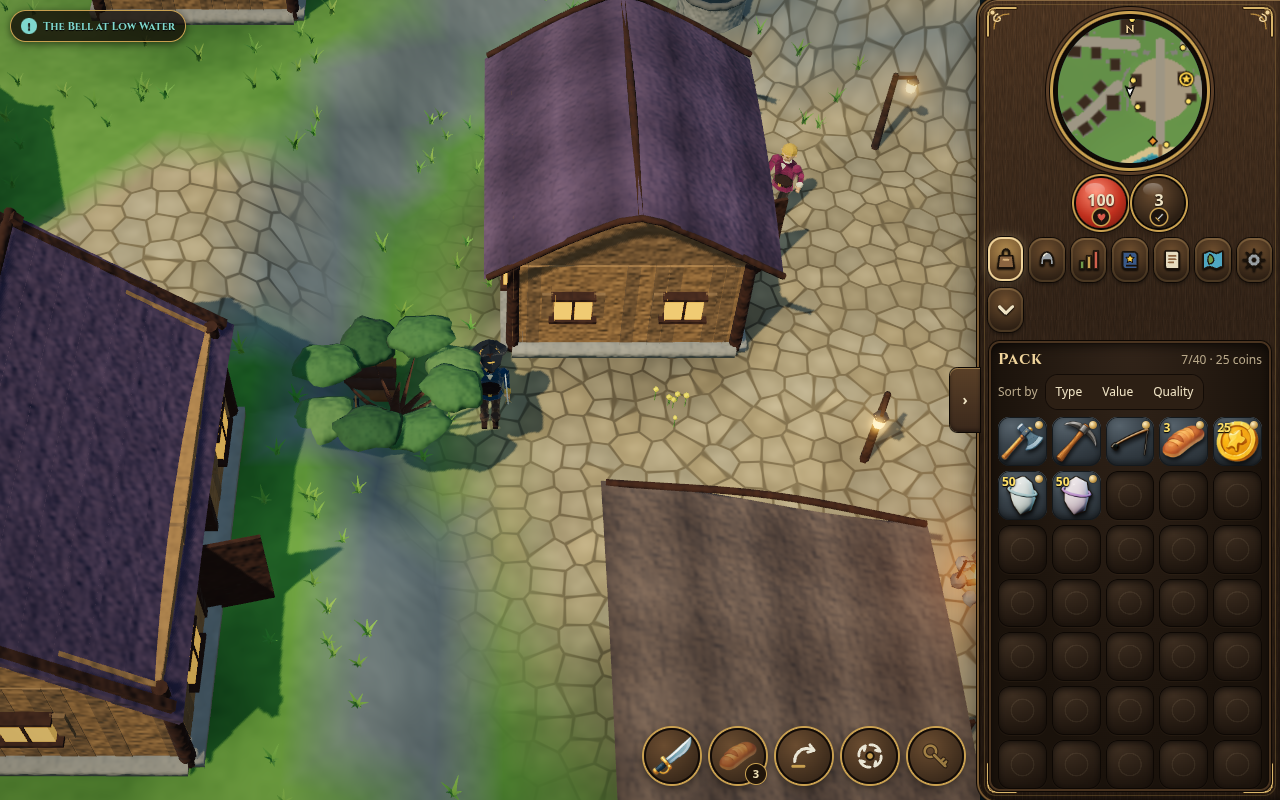
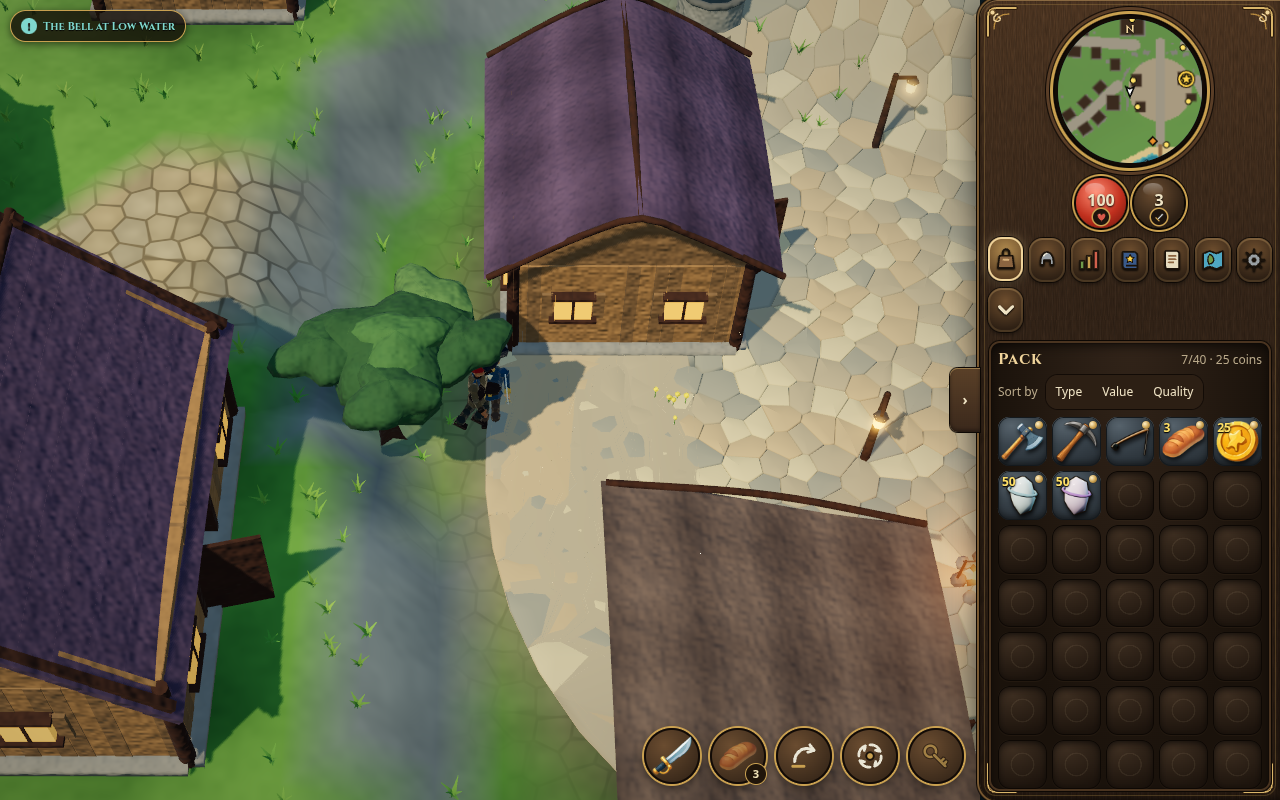
Refine Bellwether quay paving and harbour oak

Changed region(s): [[0.1875, 0.0, 0.7812, 0.9688], [0.9062, 0.0938, 0.9375, 0.125]]

diff --git a/src/art/models/quayPaving.ts b/src/art/models/quayPaving.ts
@@ -1,0 +1,132 @@
+import * as THREE from 'three';
+import { PAL } from '../materials';
+import { fbm, mulberry32 } from '../noise';
+import { BELL_TOWN, LAYOUT } from '../../game/world/island';
+import type { World } from '../../game/world/world';
+
+export interface QuayStone { x: number; z: number; radius: number; variant: number; colour: number }
+
+const SITE_TARGET = 1250, GAP = .025, HASH_CELL = .58;
+const STONE_COLOURS = [PAL.quayStone, PAL.quayStoneWarm, PAL.quayStoneCool, PAL.quayStonePale] as const;
+
+/** Deterministic, irregular site centers for the interlocking stones in the old quay footprint. */
+export function planQuayStones(world: Pick<World, 'solids'>, seed = 41621): QuayStone[] {
+  const rnd = mulberry32(seed), stones: QuayStone[] = [], cells = new Map<string, number[]>();
+  const key = (x: number, z: number) => `${x},${z}`;
+  const buildings = BELL_TOWN.buildings.filter(b => Math.abs(b.x - LAYOUT.village.x) < 17 && Math.abs(b.z - LAYOUT.village.z) < 17);
+  const nearbySolids = world.solids.filter(s => Math.abs(s.x - LAYOUT.village.x) < 17 + ('r' in s ? s.r : s.w / 2)
+    && Math.abs(s.z - LAYOUT.village.z) < 17 + ('r' in s ? s.r : s.d / 2));
+  const isBlocked = (x: number, z: number, r: number) => {
+    if (buildings.some(b => Math.abs(x - b.x) < b.w / 2 + r + .12 && Math.abs(z - b.z) < b.d / 2 + r + .12)) return true;
+    return nearbySolids.some(s => {
+      if ('r' in s) return Math.hypot(x - s.x, z - s.z) < s.r + r + .08;
+      return Math.abs(x - s.x) < s.w / 2 + r + .08 && Math.abs(z - s.z) < s.d / 2 + r + .08;
+    });
+  };
+  for (let attempt = 0; attempt < SITE_TARGET * 150 && stones.length < SITE_TARGET; attempt++) {
+    const angle = rnd() * Math.PI * 2, distance = Math.sqrt(rnd()) * 14.1;
+    const x = LAYOUT.village.x + Math.cos(angle) * distance, z = LAYOUT.village.z + Math.sin(angle) * distance;
+    const radius = .19 + rnd() * .12;
+    const edge = 13.15 + fbm(x * .13, z * .13, 2, 11) * 2.8;
+    if (distance > edge - radius * .55 || isBlocked(x, z, radius)) continue;
+    const cx = Math.floor(x / HASH_CELL), cz = Math.floor(z / HASH_CELL);
+    let overlaps = false;
+    for (let dz = -2; dz <= 2 && !overlaps; dz++) for (let dx = -2; dx <= 2 && !overlaps; dx++) {
+      for (const index of cells.get(key(cx + dx, cz + dz)) ?? []) {
+        const other = stones[index];
+        if (Math.hypot(x - other.x, z - other.z) < radius + other.radius + GAP) { overlaps = true; break; }
+      }
+    }
+    if (overlaps) continue;
+    const stone: QuayStone = { x, z, radius, variant: Math.floor(rnd() * 4), colour: STONE_COLOURS[Math.floor(rnd() * STONE_COLOURS.length)] };
+    const index = stones.push(stone) - 1, bucket = cells.get(key(cx, cz));
+    if (bucket) bucket.push(index); else cells.set(key(cx, cz), [index]);
+  }
+  return stones;
+}
+
+type Point = { x: number; z: number };
+/** Clip a convex polygon to the half-plane that is nearer to the current stone site. */
+function clip(poly: Point[], nx: number, nz: number, limit: number): Point[] {
+  const output: Point[] = [];
+  for (let i = 0; i < poly.length; i++) {
+    const a = poly[i], b = poly[(i + 1) % poly.length], da = a.x * nx + a.z * nz - limit, db = b.x * nx + b.z * nz - limit;
+    const insideA = da <= 1e-8, insideB = db <= 1e-8;
+    if (insideA) output.push(a);
+    if (insideA !== insideB) {
+      const t = da / (da - db);
+      output.push({ x: a.x + (b.x - a.x) * t, z: a.z + (b.z - a.z) * t });
+    }
+  }
+  return output;
+}
+
+function touchesBuilding(p: Point, buildings: typeof BELL_TOWN.buildings): boolean {
+  return buildings.some(b => Math.abs(p.x - (b.x - LAYOUT.village.x)) < b.w / 2 + .2
+    && Math.abs(p.z - (b.z - LAYOUT.village.z)) < b.d / 2 + .2);
+}
+
+/** Build shallow bevelled Voronoi setts as one vertex-coloured mesh; no texture repetition or collision changes. */
+export function buildQuayPaving(world: Pick<World, 'solids' | 'ground'>): THREE.Group {
+  const sites = planQuayStones(world), buildings = BELL_TOWN.buildings.filter(b => Math.abs(b.x - LAYOUT.village.x) < 17 && Math.abs(b.z - LAYOUT.village.z) < 17);
+  const boundary: Point[] = Array.from({ length: 64 }, (_, i) => {
+    const a = i / 64 * Math.PI * 2;
+    const r = 14.2 + .4 * Math.sin(a * 3 + .2) + .22 * Math.cos(a * 5 - .7);
+    return { x: Math.cos(a) * r, z: Math.sin(a) * r };
+  });
+  const siteBuckets = new Map<string, number[]>();
+  sites.forEach((site, i) => {
+    const key = `${Math.floor(site.x / HASH_CELL)},${Math.floor(site.z / HASH_CELL)}`;
+    const bucket = siteBuckets.get(key); if (bucket) bucket.push(i); else siteBuckets.set(key, [i]);
+  });
+  const positions: number[] = [], colours: number[] = [], indices: number[] = [];
+  let renderedStones = 0;
+  const base = new THREE.Color();
+  for (let s = 0; s < sites.length; s++) {
+    const site = sites[s], sx = site.x - LAYOUT.village.x, sz = site.z - LAYOUT.village.z;
+    let poly = boundary;
+    const cx = Math.floor(site.x / HASH_CELL), cz = Math.floor(site.z / HASH_CELL);
+    const neighbours: number[] = [];
+    for (let dz = -4; dz <= 4; dz++) for (let dx = -4; dx <= 4; dx++) neighbours.push(...(siteBuckets.get(`${cx + dx},${cz + dz}`) ?? []));
+    for (const n of neighbours) {
+      if (n === s || poly.length < 3) continue;
+      const other = sites[n], nx = other.x - site.x, nz = other.z - site.z;
+      if (nx * nx + nz * nz > 2.4 * 2.4) continue;
+      const ox = other.x - LAYOUT.village.x, oz = other.z - LAYOUT.village.z;
+      poly = clip(poly, nx, nz, (ox * ox + oz * oz - sx * sx - sz * sz) / 2);
+    }
+    if (poly.length < 3) continue;
+    const centre = poly.reduce((p, v) => ({ x: p.x + v.x / poly.length, z: p.z + v.z / poly.length }), { x: 0, z: 0 });
+    const worldCentre = { x: centre.x + LAYOUT.village.x, z: centre.z + LAYOUT.village.z };
+    if (touchesBuilding(worldCentre, buildings)) continue;
+    const count = poly.length, first = positions.length / 3;
+    base.setHex(site.colour);
+    const addRing = (scale: number, lift: number, tint: number) => {
+      for (const v of poly) {
+        const x = worldCentre.x + (v.x - centre.x) * scale, z = worldCentre.z + (v.z - centre.z) * scale;
+        positions.push(x, world.ground(x, z) + lift, z);
+        colours.push(base.r * tint, base.g * tint, base.b * tint);
+      }
+    };
+    addRing(1, .008, .72); addRing(1, .034, .84); addRing(.92, .091, 1);
+    const top = positions.length / 3;
+    positions.push(worldCentre.x, world.ground(worldCentre.x, worldCentre.z) + .105, worldCentre.z);
+    colours.push(base.r * .98, base.g * .98, base.b * .98);
+    for (let i = 0; i < count; i++) {
+      const a = first + i, b = first + (i + 1) % count, c = first + count + i, d = first + count + (i + 1) % count;
+      const e = first + count * 2 + i, f = first + count * 2 + (i + 1) % count;
+      indices.push(a, c, b, b, c, d, c, e, d, d, e, f, top, f, e);
+    }
+    renderedStones++;
+  }
+  const geometry = new THREE.BufferGeometry();
+  geometry.setAttribute('position', new THREE.Float32BufferAttribute(positions, 3));
+  geometry.setAttribute('color', new THREE.Float32BufferAttribute(colours, 3));
+  geometry.setIndex(indices); geometry.computeVertexNormals();
+  const material = new THREE.MeshStandardMaterial({ vertexColors: true, roughness: .98, metalness: 0, flatShading: false });
+  const paving = new THREE.Mesh(geometry, material);
+  paving.name = 'bellwether-quay-setts'; paving.castShadow = false; paving.receiveShadow = true;
+  paving.userData.stoneCount = renderedStones;
+  const group = new THREE.Group(); group.name = 'bellwether-quay-paving'; group.userData.stoneCount = renderedStones; group.add(paving);
+  return group;
+}

diff --git a/src/art/models/organic.ts b/src/art/models/organic.ts
@@ -45,11 +45,11 @@ function limb(points: readonly (readonly [number, number, number])[], radius: nu
   const geo = new THREE.BufferGeometry(); geo.setAttribute('position', new THREE.Float32BufferAttribute(p, 3)); geo.setIndex(ix); geo.computeVertexNormals(); return geo;
 }
 
-function foliage(width: number, depth: number, height: number, phase: number) {
+function foliage(width: number, depth: number, height: number, phase: number, scallop = 1) {
   // Broad shoulders, off-centre crown and scalloped lower edges. These are authored lobes, not vertex noise.
   const profile = [[0, .12], [.14, .64], [.39, 1], [.66, .94], [.87, .65], [1, .025]];
   return loft(profile.map(([t, r]) => [Math.sin(t * 2) * width * .13, t * height, t * depth * .1, width * r, depth * r]), 24,
-    (a, t) => 1 + .12 * Math.sin(a * 3 + phase) + .07 * Math.cos(a * 5 - phase) + (1 - t) * .055 * Math.sin(a * 7));
+    (a, t) => 1 + scallop * (.12 * Math.sin(a * 3 + phase) + .07 * Math.cos(a * 5 - phase)) + (1 - t) * .055 * Math.sin(a * 7));
 }
 
 /** Coastal Scots pine: wind-bent scaffold and a broad, interlocking crown of drooping needle sprays. */
@@ -95,24 +95,22 @@ export function buildCoastalOak(seed: number): THREE.Group {
   const out = collapse(g); out.rotation.y = rnd() * Math.PI * 2; out.scale.setScalar(.95 + rnd() * .1); return out;
 }
 
-/** The quay's salt oak: a branch-led silhouette and low, overlapping, wind-combed leaf fans. */
+/** The quay's salt oak: a raised, spreading canopy held by visible forked boughs. */
 export function buildHarbourOak(seed: number): THREE.Group {
   const rnd=mulberry32(seed), g=new THREE.Group();
-  g.add(mesh(limb([[0,0,0],[-.05,.6,0],[-.19,1.45,.08],[-.25,2.25,-.04]],.27),mat('trunk')));
-  const fans: [number,number,number,number,number,number][]=[
-    [-1.2,2.2,-.73,.66,.54,.08],[-.55,2.55,-1.18,.64,.55,-.12],
-    [.52,2.35,-1.18,.67,.54,.21],[1.21,2.57,-.48,.68,.58,.16],
-    [1.38,2.23,.55,.69,.54,-.1],[.48,2.49,1.24,.68,.58,.15],
-    [-.66,2.17,1.11,.68,.56,-.12],[-1.33,2.38,.22,.71,.58,.11],
+  g.add(mesh(limb([[0,0,0],[-.08,.75,.04],[-.2,1.72,.08],[-.12,2.65,-.05],[.08,3.35,-.12]],.3),mat('trunk')));
+  const boughs: [number,number,number][]=[[-1.22,3.02,-.46],[-.66,3.22,.98],[.94,3.08,-.76],[1.27,2.94,.28],[.14,3.38,.49]];
+  boughs.forEach(([x,y,z],i)=>g.add(mesh(limb([[0,1.12,.02],[x*.32,1.92,z*.34],[x*.72,y-.28,z*.72],[x,y,z]],.115-i*.008),mat('trunk'))));
+  const crown=mesh(foliage(1.46,1.36,1.52,seed*.11,1.65),mat('harbourLeafDeep'));
+  crown.position.set(-.08,2.55,-.04); crown.rotation.y=rnd()*.32; g.add(crown);
+  const clusters: [number,number,number,number,number,number][]=[
+    [-1.18,3.02,-.5,.82,.77,.82],[-.52,3.17,1.08,.79,.74,.88],
+    [.98,3.0,-.72,.86,.79,.82],[1.22,3.02,.46,.83,.76,.77],
+    [.02,3.29,.18,.82,.79,.9],
   ];
-  fans.forEach(([x,y,z,w,d,tilt],i)=>{
-    g.add(mesh(limb([[-.2,1.0,.02],[x*.45,1.65,z*.38],[x*.82,y-.1,z*.84]],.11-i*.005),mat('trunk')));
-    const geo=loft([
-      [0,0,0,w*.36,d*.33],[-.05,.04,0,w*.82,d*.76],[0,.12,0,w,d],
-      [.04,.22,-.02,w*.82,d*.77],[.06,.31,-.03,w*.46,d*.44],[.06,.33,-.03,.015,.015]
-    ],24,(a,t)=>1+.08*Math.sin(a*5+i*1.3)+.035*Math.cos(a*8-t*4));
-    const fan=mesh(geo,mat(i%4===0?'harbourLeafSun':i%3===0?'harbourLeafDeep':'harbourLeaf'));
-    fan.position.set(x,y,z);fan.rotation.set(tilt,rnd()*Math.PI*2,-tilt*.7);g.add(fan);
+  clusters.forEach(([x,y,z,w,d,h],i)=>{
+    const lobe=mesh(foliage(w,d,h,i*.83+seed*.07,1.8),mat(i===2?'harbourLeafSun':i===4?'harbourLeaf':'harbourLeafDeep'));
+    lobe.position.set(x,y,z); lobe.rotation.y=rnd()*.45; g.add(lobe);
   });
   const out=collapse(g);out.rotation.y=rnd()*Math.PI*2;out.scale.setScalar(.98+rnd()*.07);return out;
 }

diff --git a/src/render/terrainMesh.ts b/src/render/terrainMesh.ts
@@ -5,6 +5,7 @@ import type { Look } from '../art/looks';
 import { BELL_TOWN, coastDist, nearestPathDist, FLATS, LAYOUT, BEACH, SUN_LAYOUT, SUN, SUN_RADIUS, WRACK, WRACK_RADIUS, WRACK_LAYOUT, AMBER, AMBER_RADIUS, AMBER_LAYOUT } from '../game/world/island';
 import { World, HCELL } from '../game/world/world';
 import { CAVE_FLOOR } from '../game/world/caves';
+import { buildQuayPaving } from '../art/models/quayPaving';
 
 // Smooth terrain from the simulation's height grid: shared vertices, smooth normals,
 // colours blended per vertex (no triangle checkerboard), plus drifting cloud shadows.
@@ -30,6 +31,8 @@ export function buildTerrainMesh(world: World, look: Look, cave = false): Terrai
   const meadow = C(0x86ad55), moss = C(0x4f7a3a);
   const cobble = C(0xb3a486), cobbleD = C(0x9a8c72);
   const R = HN + 1, H = world.heights;
+  const bellwetherQuay = BELLWETHER_REDESIGN && world.cx === 0 && world.cz === 0 && !cave;
+  const quayJoint = C(0x857966);
   // cobbled squares (Bellwether's quay, Port Halyard's) and paved ruins (the Broken Ring, the Sunken Temple)
   const squares = [...BELL_TOWN.squares, FLATS[0], FLATS.find((f) => f.x === SUN_LAYOUT.port.x && f.z === SUN_LAYOUT.port.z)!, FLATS.find((f) => f.x === WRACK_LAYOUT.landing.x && f.z === WRACK_LAYOUT.landing.z)!, FLATS.find((f) => f.x === AMBER_LAYOUT.landing.x && f.z === AMBER_LAYOUT.landing.z)!];
   const paved = [LAYOUT.ruin, SUN_LAYOUT.temple];
@@ -98,6 +101,18 @@ export function buildTerrainMesh(world: World, look: Look, cave = false): Terrai
         const exposed = smooth(slope, .22, .62) * (1 - smooth(d, 12, 30));
         const bedding = .5 + .5 * Math.sin(y * 1.65 + x * .018 + z * .012);
         tmp.lerp(rock.clone().lerp(rockD, .16 + bedding * .22), exposed);
+      }
+      if (bellwetherQuay) {
+        const dx = x - LAYOUT.village.x, dz = z - LAYOUT.village.z;
+        if (Math.abs(dx) < 18.5 && Math.abs(dz) < 18.5) {
+          const distance = Math.hypot(dx, dz);
+          const angle = Math.atan2(dz, dx), edge = 14.2 + .4 * Math.sin(angle * 3 + .2) + .22 * Math.cos(angle * 5 - .7);
+          const plaza = 1 - smooth(distance, edge - 2, edge + 1.8);
+          if (plaza > 0) {
+            tmp.lerp(quayJoint, plaza);
+            cobW *= 1 - plaza;
+          }
+        }
       }
       return cobW;
     }
@@ -204,6 +219,7 @@ gl_FragColor.rgb *= 1.0 - smoothstep(0.55, 0.75, cloud) * 0.18;`}`);
   };
   // streaming (Tom: big islands that load in as you go): chunks are built when you come near, freed when you leave
   const group = new THREE.Group();
+  if (bellwetherQuay) group.add(buildQuayPaving(world));
   const live = new Map<number, THREE.Mesh>();
   const build = (ci: number, cj: number) => {
     const k = cj * nC + ci;

diff --git a/src/art/models/quayPaving.test.ts b/src/art/models/quayPaving.test.ts
@@ -1,0 +1,41 @@
+import { describe, expect, it } from 'vitest';
+import * as THREE from 'three';
+import { BELL_TOWN } from '../../game/world/island';
+import { buildQuayPaving, planQuayStones } from './quayPaving';
+
+const mockWorld = { solids: [], ground: () => 0 };
+
+describe('Bellwether quay paving', () => {
+  it('places deterministic, non-overlapping setts clear of building footprints', () => {
+    const stones = planQuayStones(mockWorld), repeat = planQuayStones(mockWorld);
+    expect(stones.length).toBeGreaterThan(700);
+    expect(stones.length).toBeLessThanOrEqual(1250);
+    expect(stones).toEqual(repeat);
+    const buckets = new Map<string, typeof stones>();
+    for (const a of stones) {
+      expect([a.x, a.z, a.radius, a.variant, a.colour].every(Number.isFinite)).toBe(true);
+      for (const b of BELL_TOWN.buildings) {
+        const clearX = Math.abs(a.x - b.x) >= b.w / 2 + a.radius + .12;
+        const clearZ = Math.abs(a.z - b.z) >= b.d / 2 + a.radius + .12;
+        expect(clearX || clearZ).toBe(true);
+      }
+      const cx = Math.floor(a.x / .68), cz = Math.floor(a.z / .68);
+      for (let dz = -2; dz <= 2; dz++) for (let dx = -2; dx <= 2; dx++)
+        for (const b of buckets.get(`${cx + dx},${cz + dz}`) ?? [])
+          expect(Math.hypot(a.x - b.x, a.z - b.z)).toBeGreaterThanOrEqual(a.radius + b.radius + .025 - 1e-9);
+      const key = `${cx},${cz}`, bucket = buckets.get(key);
+      if (bucket) bucket.push(a); else buckets.set(key, [a]);
+    }
+  }, 30000);
+
+  it('batches the beveled sett field into one finite vertex-coloured mesh', () => {
+    const paving = buildQuayPaving(mockWorld);
+    expect(paving.children).toHaveLength(1);
+    const mesh = paving.children[0] as THREE.Mesh;
+    expect(mesh.isMesh).toBe(true);
+    expect(mesh.userData.stoneCount).toBe(paving.userData.stoneCount);
+    expect(Array.from(mesh.geometry.getAttribute('position').array).every(Number.isFinite)).toBe(true);
+    expect(Array.from(mesh.geometry.getAttribute('color').array).every(Number.isFinite)).toBe(true);
+    expect(mesh.geometry.index!.count / 3).toBeLessThan(1250 * 60);
+  });
+});

diff --git a/src/art/models/organic.test.ts b/src/art/models/organic.test.ts
@@ -47,3 +47,12 @@ it('windgrown coastal pine has a broad continuous crown rather than a tall stack
   const size = crown.getSize(new THREE.Vector3());
   expect(Math.max(size.x, size.z)).toBeGreaterThan(size.y * 1.25);
 });
+
+it('harbour oak keeps a raised, spreading canopy in the quay camera view', () => {
+  const geo = mergeColoured(buildHarbourOak(11));
+  geo.computeBoundingBox();
+  const bounds = geo.boundingBox!;
+  const size = bounds.getSize(new THREE.Vector3());
+  expect(bounds.max.y).toBeGreaterThan(4.1);
+  expect(Math.max(size.x, size.z)).toBeGreaterThan(3.1);
+});

diff --git a/src/art/materials.ts b/src/art/materials.ts
@@ -16,6 +16,11 @@ export const PAL = {
   copper: 0xc27a45,
   stone: 0x8d8a82,
   stoneDark: 0x6a6862,
+  quayStone: 0xa89d87,
+  quayStoneWarm: 0xb4a184,
+  quayStoneCool: 0x969487,
+  quayStonePale: 0xc2b697,
+  quayJoint: 0x756b5b,
   sail: 0xe6dcc0,
   sailPatch: 0xd2c29a,
   teal: 0x2f7f86,

diff --git a/docs/world-redesign/phase3/README.md b/docs/world-redesign/phase3/README.md
@@ -1,30 +1,29 @@
-# Bellwether Phase 3: first integrated environment art pass
+# Bellwether Phase 3: environment art prototype
 
-This is an **in-progress art pass**, not Phase 3 acceptance. The first section is Bellwether Quay: Harbour Goods, the Chart House, Reed's Tackle, and the verge west of the store. The starting island's geometry, town collision, door points, interiors, resources, quest positions, and save format remain the Phase 2 versions.
+This is an integrated, playable art pass on `design/bellwether-phase2`. It covers the quay and the verge west of Harbour Goods. The environment-art milestone remains in progress; it has not been merged into `main`.
 
-## What is in the game
+## Implemented in the game
 
-- Three liftable roof assemblies now have separate silhouettes: Harbour Goods has a weathered curved cedar gable with filled ends; the Chart House has a shallow hip and observation lantern; Reed's Tackle has a low swept salt-shed roof. The original enterable interiors and simulation walls remain.
-- One harbour oak uses a new branch-led low canopy with darker matte foliage. A few sculpted erosion rocks and salt shrubs are composed along the verge, with collision and road clearance checked before placement. Curved grass fans replace the old cone tufts in the nearby streamed cells, still using one instanced mesh per cell.
-- The player model was inspected but has not been replaced. The existing pivot rig, basic animation functions and equipment tint system remain. The requested skeletal character milestone is subsequent work.
+- Three liftable roof assemblies give Harbour Goods, the Chart House and Reed's Tackle distinct coastal silhouettes. Walls, entrances, interiors and their simulation collision remain the existing versions.
+- The old quay shader pattern is replaced locally by a single vertex-coloured mesh of shallow bevelled setts. The layout uses deterministic irregular sites, clipped stone cells and a curved edge into compacted earth. It adds no texture or per-stone draw calls. The settlement's walk grid, collision, doors, NPC routes, resource nodes, quests and saves are untouched.
+- A raised salt-oak crown is carried by visible forked boughs. Erosion rocks, salt shrubs and curved grass fans remain composed along the west verge. Their placements retain the existing navigation clearance.
+- The current player model and its basic pivot animations are unchanged. A reusable skeletal GLB character and equipment pipeline is the following character milestone, after this environment section is reviewed.
 
-## Visual review
+## Visual evidence
 
-All images in [evidence](evidence) were captured from the **running Three.js game** with the same camera script and comparable staged player positions. The before captures use the published Phase 2 preview; the after captures use the Phase 3 local build. Compare `before-quay-desktop.png` with `after-quay-desktop.png`, each `*-close.png` pair, `before-verge.png` with `after-verge.png`, and the two mobile views. The capture script is [bellwether-phase3-browser.cjs](../../../scripts/bellwether-phase3-browser.cjs).
+The screenshots in [evidence](evidence) show the running game, not concept art. Compare the Phase 2 `before-*` files with `after-quay-desktop.png`, the three building close-ups, `after-verge.png` and `after-quay-mobile.png`. The capture tool is [bellwether-phase3-browser.cjs](../../../scripts/bellwether-phase3-browser.cjs).
 
-The new roofs and planting are a visible improvement, but the quay is still dominated by the old polygon paving. Several replacement approaches were rendered and rejected because they read as scattered markers, a grid, or noisy paving; none was retained. The new oak's canopy is better coloured and more open, but it still needs a stronger tree silhouette at the gameplay camera. The repeated neighbouring building shells and the current character also limit the scene's cohesion. **The environment-art milestone is not finished.**
+The roofs and paving now have distinct in-game geometry, and the tree silhouette is taller and less disk-like. The current camera still shows a cellular stone rhythm; review the paving and overall art cohesion on the iPhone before treating this as the new standard. The surrounding settlement, player character, other buildings and wider terrain are outside this prototype.
 
-## Performance and gameplay evidence
+## Performance and validation
 
-The same headless Chromium/SwiftShader machine produced these samples at the quay camera. Timing varies widely on software rendering and is not an iPhone FPS measurement.
+Headless Chromium with SwiftShader is a software-rendering check, not a physical-device FPS measurement. The published preview baseline and the local updated build were captured at the same mobile-emulation viewport after 12 seconds of scene settling:
 
-| View | Version | Draw calls | Triangles | Median renderer CPU |
-| --- | --- | ---: | ---: | ---: |
-| Desktop | Phase 2 | 257 | 342,992 | 32.7 ms |
-| Desktop | Local Phase 3 | 274 | 366,220 | 24.9 ms |
-| Mobile emulation | Phase 2 | 290 | 326,116 | 73.6 ms |
-| Mobile emulation | Local Phase 3 | 294 | 346,804 | 70.1 ms |
+| Mobile-emulated capture | Draw calls | Triangles | Median renderer CPU |
+| --- | ---: | ---: | ---: |
+| Published preview before this change | 392 | 386,569 | 70.7 ms |
+| Local updated preview | 390 | 421,654 | 149.7 ms |
 
-The mobile view adds four calls and about 20,700 visible triangles; it has no new texture. The local renderer reported no browser errors after fixing the grass wind uniform. Phase 2 ran at 60 FPS on the owner's iPhone, but **Phase 3's 60 FPS target is unverified on that device**.
+The renderer timing is variable under SwiftShader, but this sample is slower and carries about 35,000 more visible triangles. The prototype has not been measured on the owner's iPhone; its 60 FPS target remains unverified. Check the updated preview on-device before approving the art pass.
 
-Validation: `VITE_BELLWETHER_REDESIGN=1 VITE_BELLWETHER_PREVIEW=1 npm test` passed 355 tests in 48 files; `VITE_BELLWETHER_REDESIGN=1 VITE_BELLWETHER_PREVIEW=1 npm run build` passed TypeScript and Vite. The separate preview's packaged touch, save/reload and public deployment checks must be repeated after this branch is published.
+Validation completed locally: `VITE_BELLWETHER_REDESIGN=1 VITE_BELLWETHER_PREVIEW=1 npm test` passed 358 tests in 49 files; the TypeScript and production build passed; the desktop and mobile-emulated captures reported no browser errors. Existing navigation tests cover Bellwether reachability, NPCs, stations, doors, sailing, landing and cave access. The new paving test checks deterministic placement, building clearance, geometry validity and its single-mesh batch.
